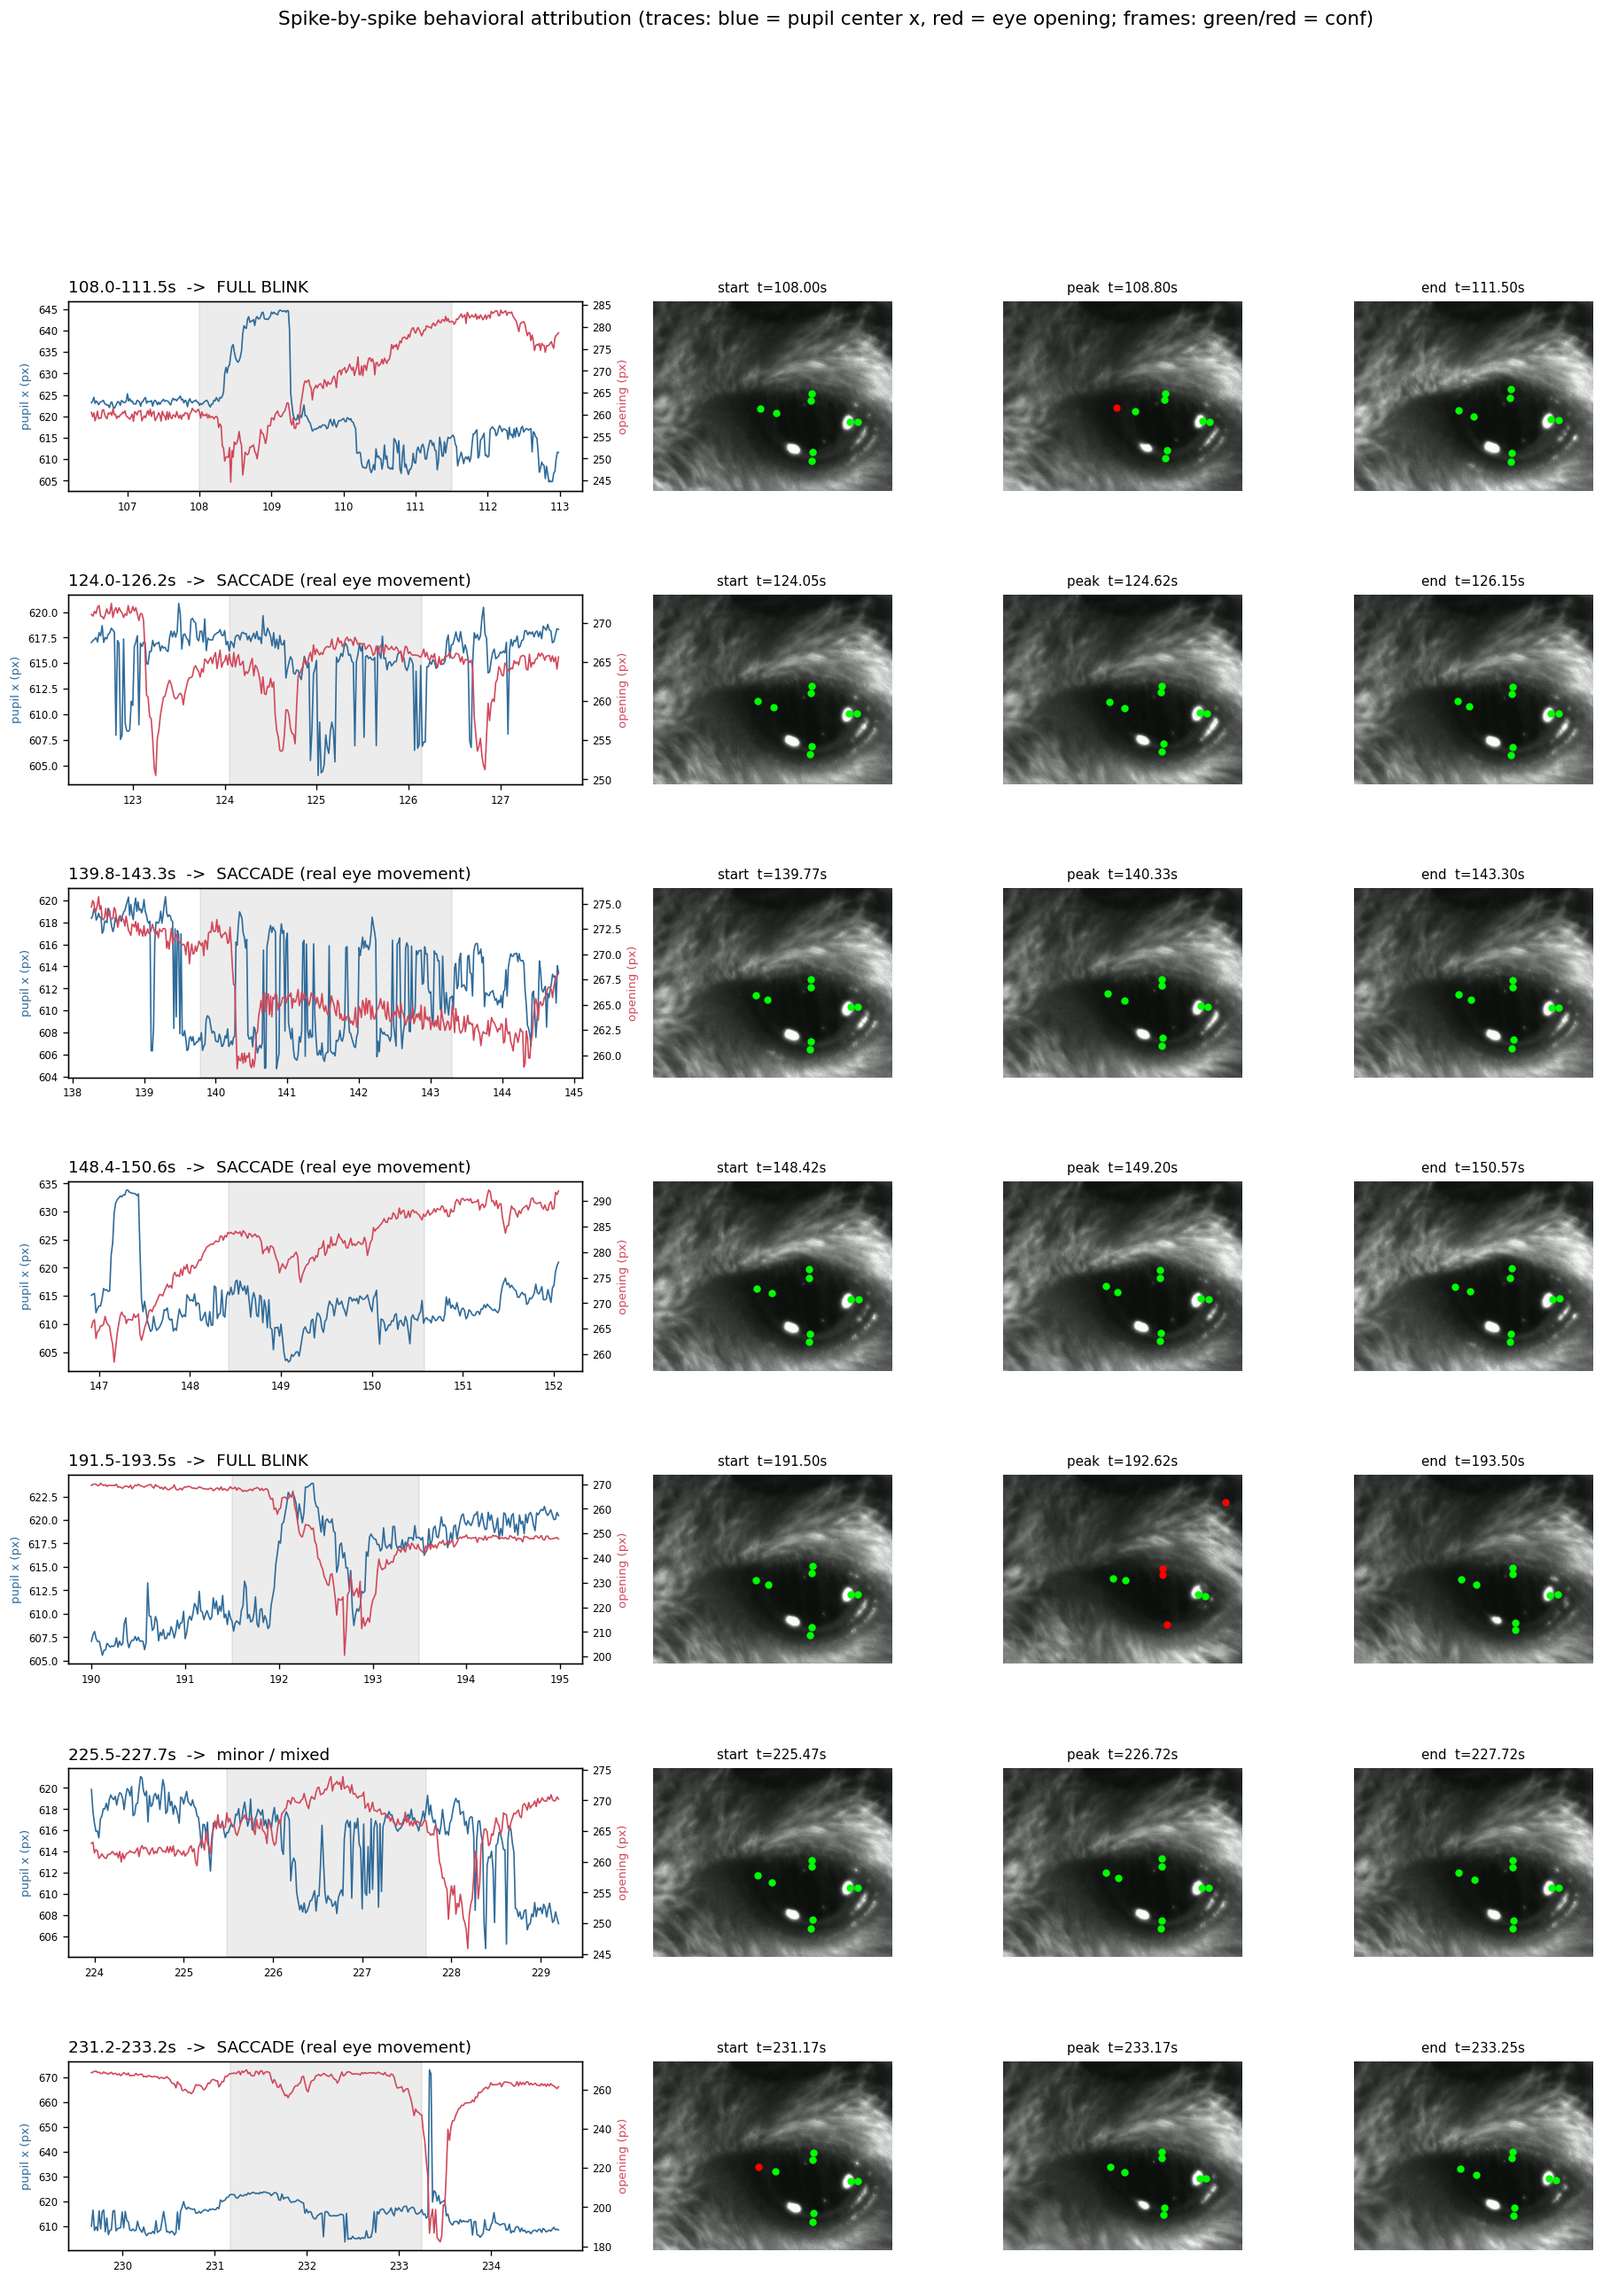
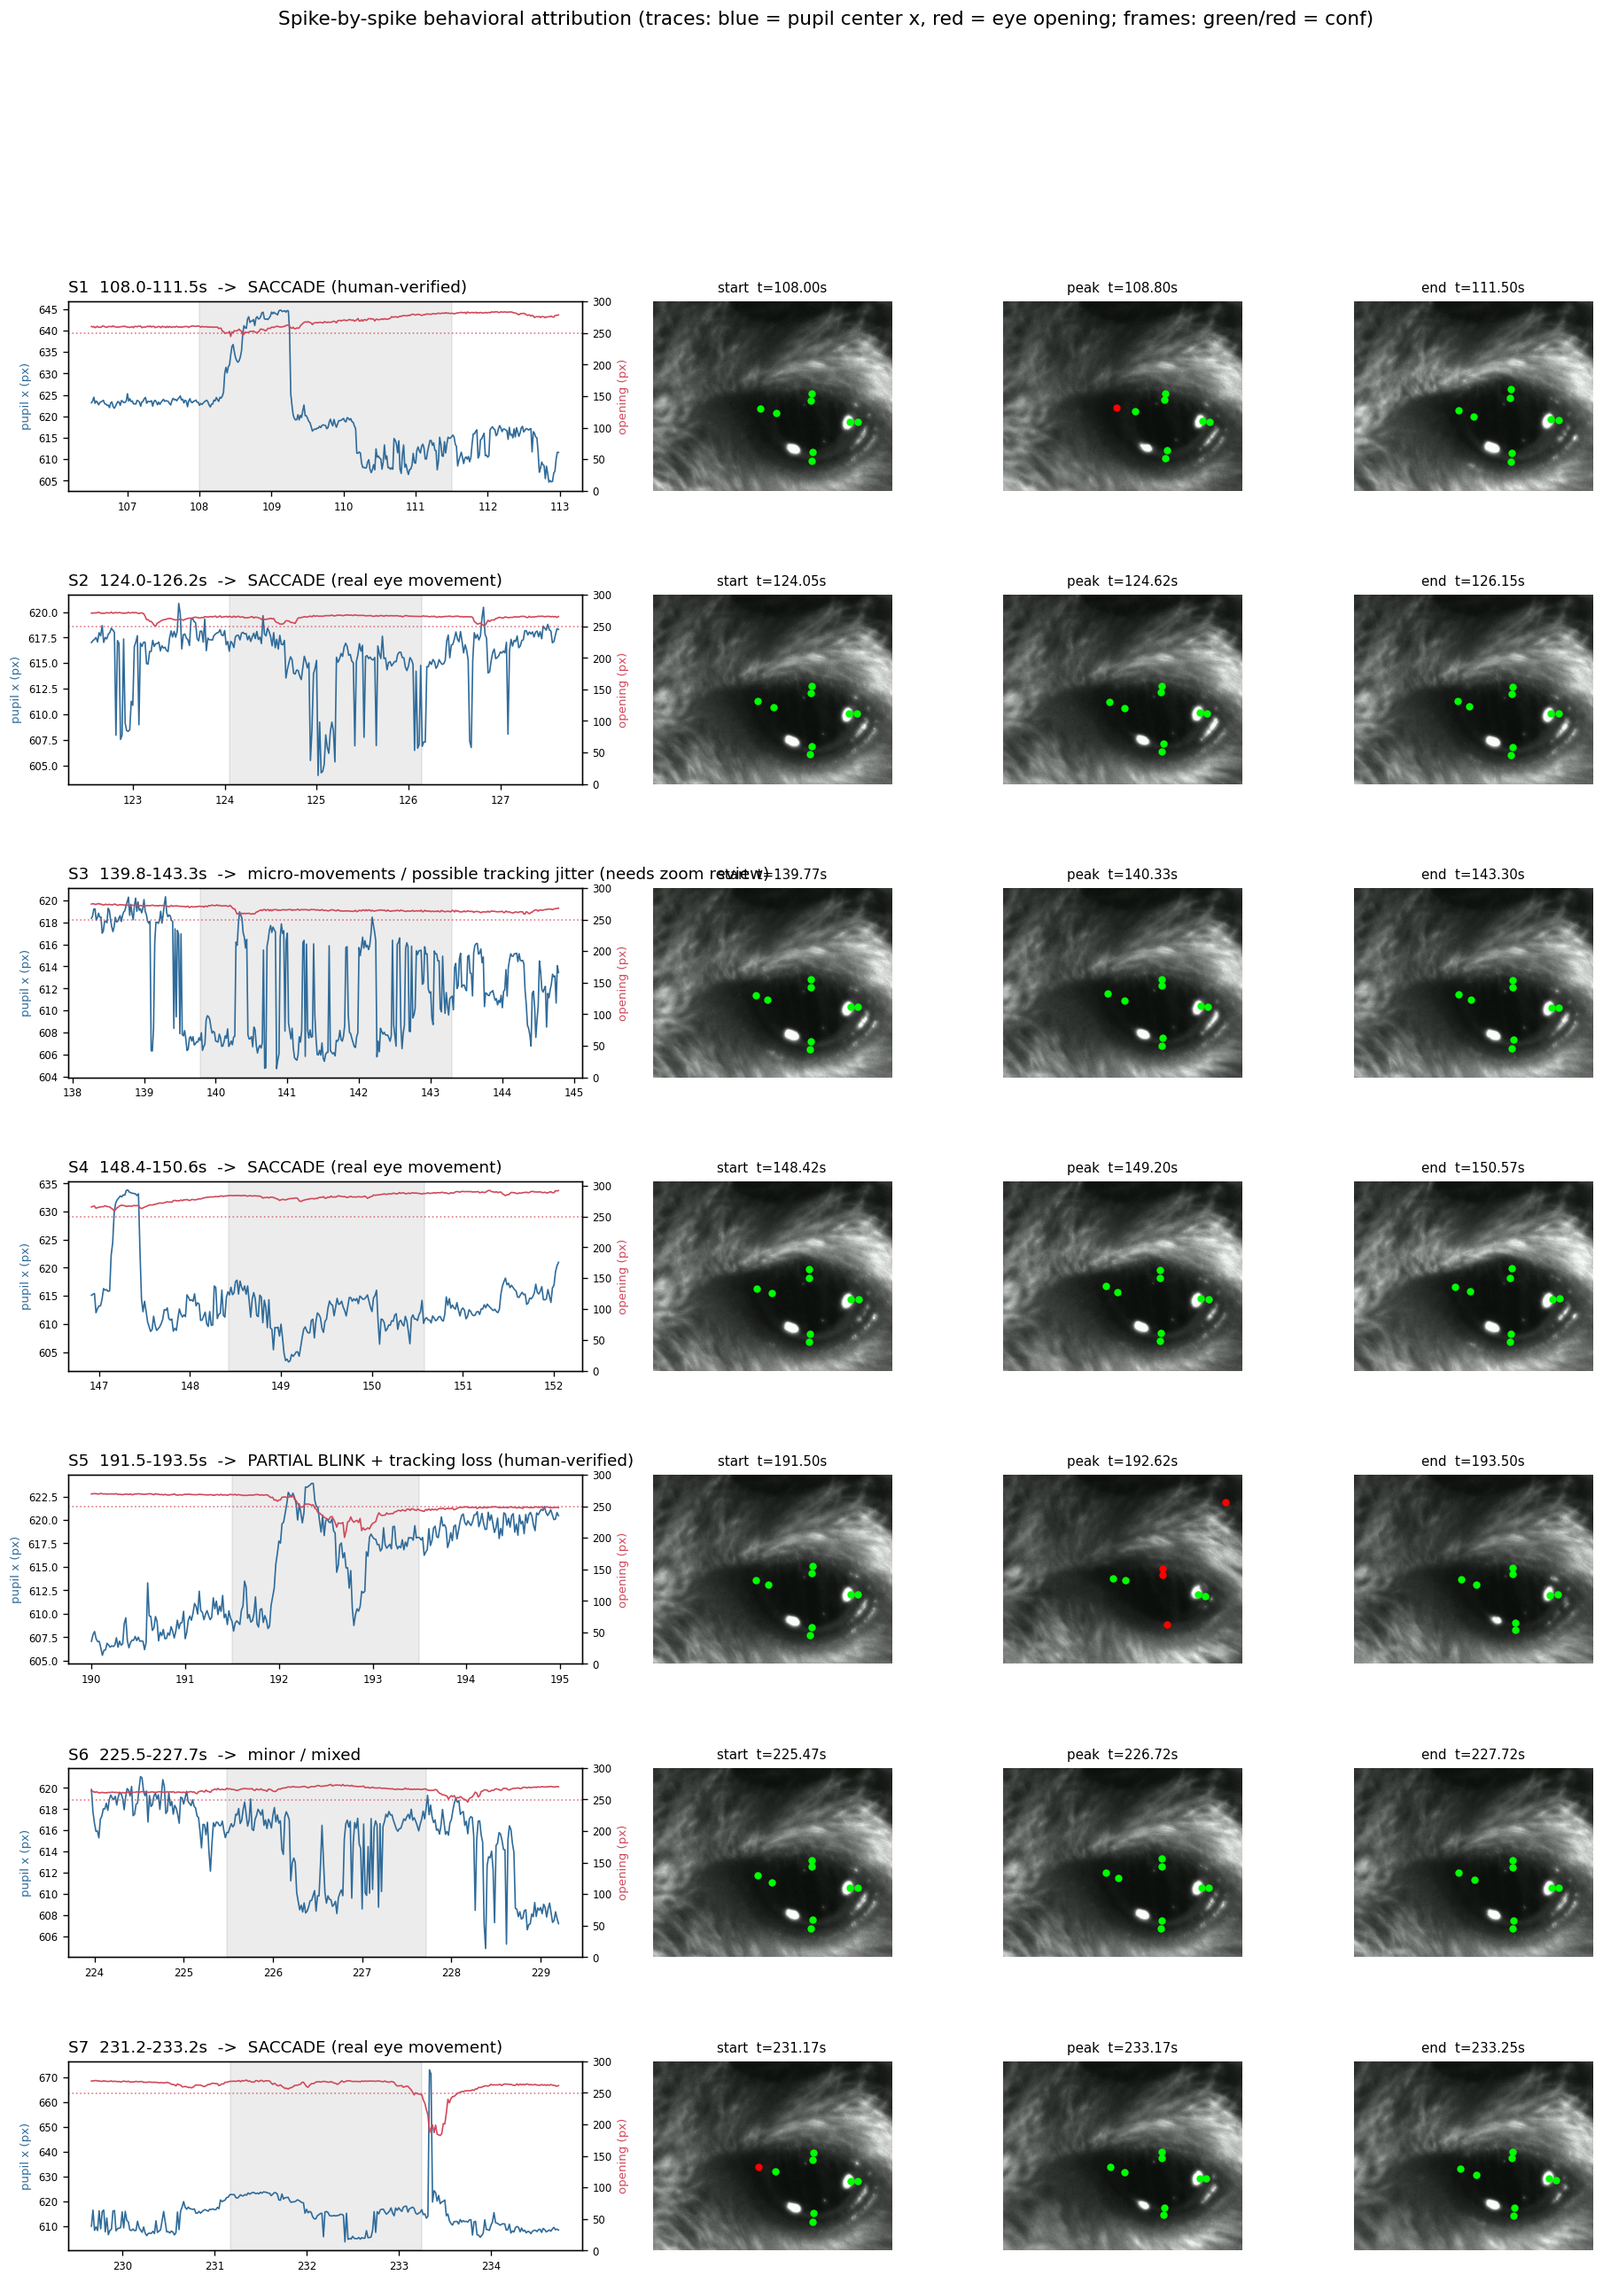
Number spikes/events, anchor opening axis at zero, verified verdicts
S-ids on attribution rows, E-ids in pipeline events; opening axis no
longer truncates (a 25% squint had looked like a drop to zero); advisor-
verified labels replace the v1 rule output on the two benchmark spikes.

Claude-Session: https://claude.ai/code/session_01Tn7Fq93sKsnAxFEPafZBjo

diff --git a/time-series-analysis/scripts/spike_behaviors.py b/time-series-analysis/scripts/spike_behaviors.py
@@ -83,8 +83,14 @@ fig = plt.figure(figsize=(19, 3.4 * n))
 gs = fig.add_gridspec(n, 4, width_ratios=[1.6, 1, 1, 1], hspace=0.55, wspace=0.08)
 lines = []
 for i, (s, e, why) in enumerate(wins):
+    sid = f"S{i+1}"
     v, omin, shift, cmin = classify(s, e)
-    lines.append(f"{s:.1f}-{e:.1f}s [{why}] -> {v} "
+    VERIFIED = {"advisor: pupil-x rise ~110s": "SACCADE (human-verified)",
+                "advisor: the 'BLINK?' panel": "PARTIAL BLINK + tracking loss (human-verified)"}
+    v = VERIFIED.get(why, v)
+    if "139.8" in f"{s:.1f}":
+        v = "micro-movements / possible tracking jitter (needs zoom review)"
+    lines.append(f"{sid} {s:.1f}-{e:.1f}s [{why}] -> {v} "
                  f"(opening min {omin:.0f}px, center shift {shift:.0f}px, conf min {cmin:.2f})")
     seg = slice(max(int((s - 1.5) * FPS), 0), int((e + 1.5) * FPS))
     axl = fig.add_subplot(gs[i, 0])
@@ -94,7 +100,9 @@ for i, (s, e, why) in enumerate(wins):
     axr2.plot(t[seg], opening[seg], color="#D1495B", lw=1)
     axr2.set_ylabel("opening (px)", color="#D1495B", fontsize=8)
     axl.axvspan(s, e, color="gray", alpha=0.15)
-    axl.set_title(f"{s:.1f}-{e:.1f}s  ->  {v}", fontsize=11, loc="left")
+    axl.set_title(f"{sid}  {s:.1f}-{e:.1f}s  ->  {v}", fontsize=11, loc="left")
+    axr2.set_ylim(0, max(300, float(np.nanmax(opening[seg])) * 1.05))
+    axr2.axhline(P5, color="#D1495B", ls=":", lw=1, alpha=0.7)
     axl.tick_params(labelsize=7); axr2.tick_params(labelsize=7)
     seg2 = slice(int(s * FPS), int(e * FPS) + 1)
     dev = np.hypot(pcx[seg2] - np.nanmedian(pcx[seg2]), pcy[seg2] - np.nanmedian(pcy[seg2])) \

diff --git a/time-series-analysis/scripts/eye_pipeline.py b/time-series-analysis/scripts/eye_pipeline.py
@@ -128,6 +128,7 @@ for s, e in to_events(union):
                  "needs_human": bool(label in ("TRACK_LOSS", "residual")
                                      or masks["TRACK_LOSS"][seg].any())})
 ev = pd.DataFrame(rows)
+ev.insert(0, "event_id", [f"E{i+1:03d}" for i in range(len(ev))])
 ev.to_csv(out / "events.csv", index=False)
 
 # ---- timeseries figure ----------------------------------------------------
@@ -169,7 +170,7 @@ if len(need):
             for bp in df.columns.get_level_values(0).unique():
                 c = "red" if df[bp]["likelihood"].iloc[mid] < PCUT else "lime"
                 ax.plot(df[bp]["x"].iloc[mid], df[bp]["y"].iloc[mid], "o", color=c, ms=4)
-        ax.set_title(f"{r.start_s:.1f}-{r.end_s:.1f}s {r['class']}", fontsize=9)
+        ax.set_title(f"{r.event_id}  {r.start_s:.1f}-{r.end_s:.1f}s {r['class']}", fontsize=9)
         ax.axis("off")
     for ax in np.ravel(axs)[len(need):]:
         ax.axis("off")
